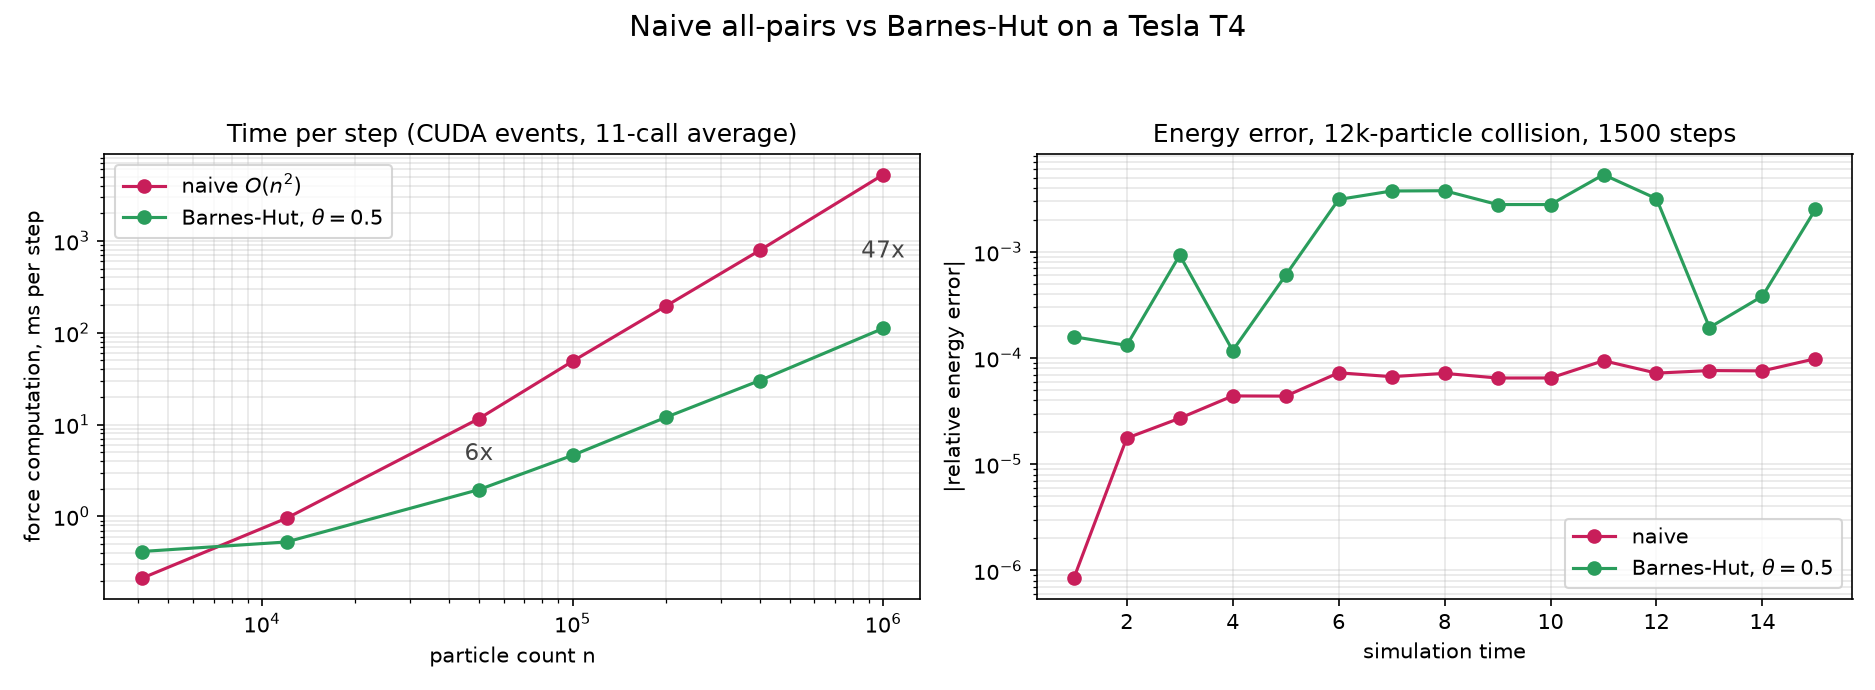
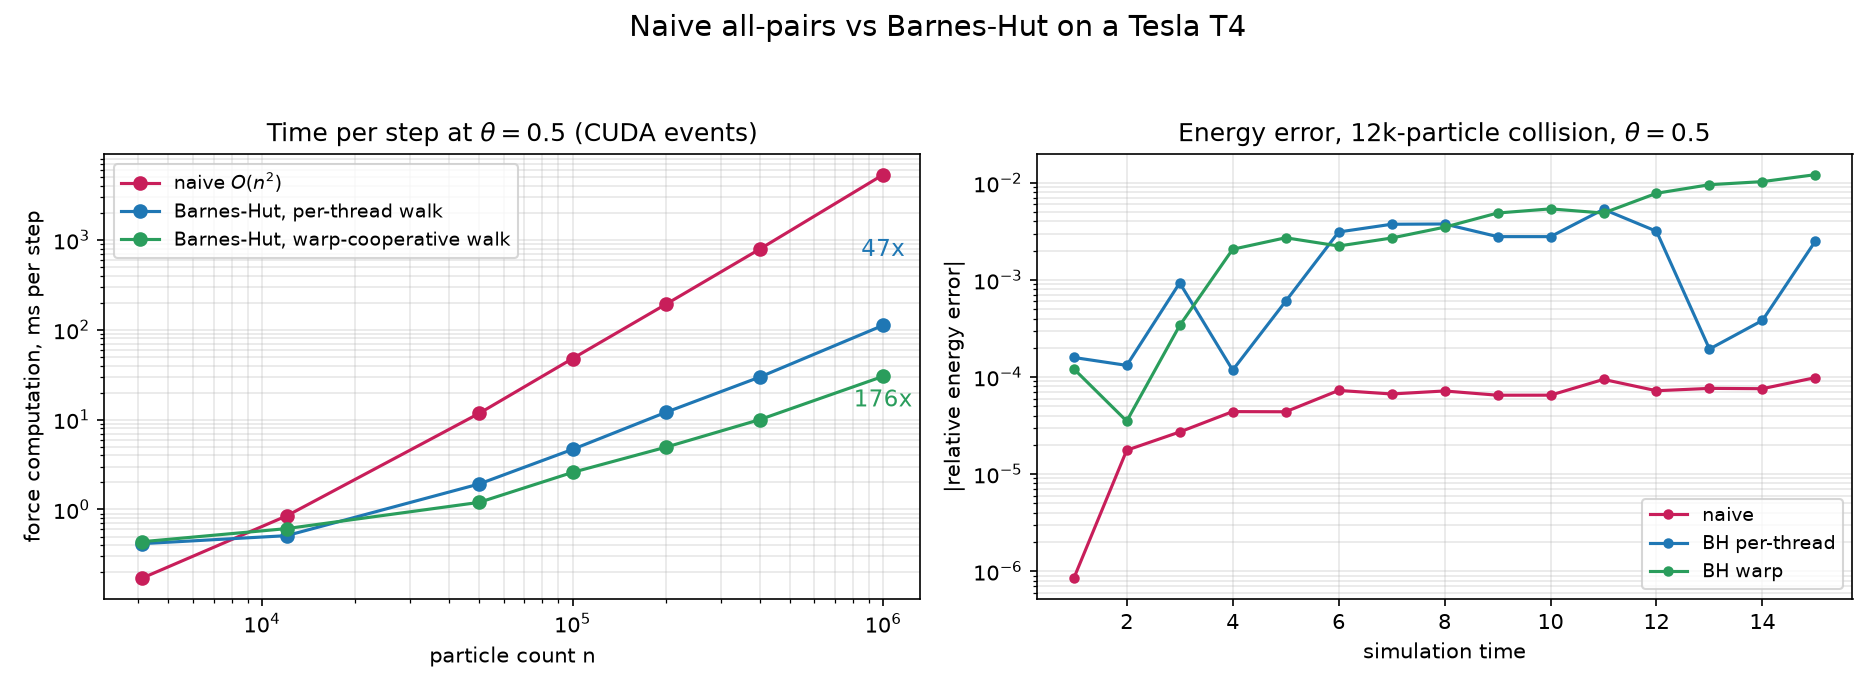
Measure the warp-cooperative traversal on a Tesla T4
The A/B the variant was built for. Both walks pass the on-device theta=0
gate identically; at theta=0.5 the warp walk's forced descents also halve
the instantaneous force error. Timing: the shared path does ~2x more
arithmetic per lane and still wins from ~50k particles up, reaching 3.7x
over the per-thread walk at one million (30 ms vs 112 ms per step, 176x
over the naive kernel). The traversal phase alone sped up 4x; the win grows
with n and with smaller theta, and inverts below ~50k where too few warps
hide the extra work.

One honest caveat, measured and documented: over a full 1500-step collision
the warp run's energy error grows to ~1.2e-2 (vs ~5e-3 bounded for
per-thread), consistent with warp-vote acceptance reshuffling under the
per-step Morton re-sort making the effective force field less
time-consistent. The writeup notes warp at theta 0.3 as the setting that
matches per-thread theta 0.5 cost with strictly better forces.

diff --git a/scripts/plot_benchmarks.py b/scripts/plot_benchmarks.py
@@ -1,11 +1,11 @@
 #!/usr/bin/env python3
 """Plot the GPU benchmark results produced by scripts/gpu_bench.sh.
 
-Left panel: force-computation time per step for the naive kernel vs the
-Barnes-Hut pipeline across particle counts, with the measured speedup marked.
-Right panel: relative energy error over the full 12k-particle collision on the
-GPU for both force modules, which is the accuracy price of theta = 0.5 shown
-honestly next to the speed.
+Left panel: force-computation time per step across particle counts — the naive
+kernel against both Barnes-Hut tree walks (per-thread and warp-cooperative) —
+with measured speedups marked. Right panel: relative energy error over the full
+12k-particle collision on the GPU for each variant, which is the accuracy price
+of the approximations shown honestly next to the speed.
 """
 import argparse
 import csv
@@ -34,45 +34,58 @@ def read_energy(path):
     return np.array(t), np.array(rel)
 
 
+def series(rows, method, theta=0.5):
+    pts = sorted((n, ms) for n, m, th, ms in rows
+                 if m == method and th == theta)
+    return [p[0] for p in pts], [p[1] for p in pts]
+
+
 def main():
     ap = argparse.ArgumentParser(description=__doc__)
     ap.add_argument("--results", default="benchmarks/gpu_results.csv")
     ap.add_argument("--energy-naive", default="benchmarks/energy_gpu_naive.csv")
-    ap.add_argument("--energy-bh", default="benchmarks/energy_gpu_bh.csv")
+    ap.add_argument("--energy-thread",
+                    default="benchmarks/energy_gpu_bh_thread.csv")
+    ap.add_argument("--energy-warp", default="benchmarks/energy_gpu_bh_warp.csv")
     ap.add_argument("--gpu", default="Tesla T4")
     ap.add_argument("--out", default="docs/benchmark_t4.png")
     args = ap.parse_args()
 
     rows = read_results(args.results)
-    naive = sorted((n, ms) for n, m, th, ms in rows if m == "naive")
-    bh = sorted((n, ms) for n, m, th, ms in rows if m == "bh" and th == 0.5)
-    nn, tn = zip(*naive)
-    nb, tb = zip(*bh)
+    nn, tn = series(rows, "naive")
+    nt, tt = series(rows, "bh-thread")
+    nw, tw = series(rows, "bh-warp")
 
     fig, ax = plt.subplots(1, 2, figsize=(12.5, 4.6))
     fig.suptitle(f"Naive all-pairs vs Barnes-Hut on a {args.gpu}", fontsize=14)
 
     ax[0].loglog(nn, tn, "o-", color="#c81e5a", label="naive $O(n^2)$")
-    ax[0].loglog(nb, tb, "o-", color="#2a9d5c",
-                 label=r"Barnes-Hut, $\theta=0.5$")
-    for n_, ta, tbh in [(50000, 11.613, 1.956), (1000000, 5269.903, 111.568)]:
-        ax[0].annotate(f"{ta / tbh:.0f}x", xy=(n_, np.sqrt(ta * tbh)),
-                       ha="center", va="center", fontsize=11, color="#444444")
+    ax[0].loglog(nt, tt, "o-", color="#1f77b4",
+                 label=r"Barnes-Hut, per-thread walk")
+    ax[0].loglog(nw, tw, "o-", color="#2a9d5c",
+                 label=r"Barnes-Hut, warp-cooperative walk")
+    ax[0].annotate("47x", xy=(1e6, np.sqrt(5324.170 * 112.103)), ha="center",
+                   va="center", fontsize=11, color="#1f77b4")
+    ax[0].annotate("176x", xy=(1e6, np.sqrt(112.103 * 30.328) * 0.28),
+                   ha="center", va="center", fontsize=11, color="#2a9d5c")
     ax[0].set_xlabel("particle count n")
     ax[0].set_ylabel("force computation, ms per step")
-    ax[0].set_title("Time per step (CUDA events, 11-call average)")
-    ax[0].legend()
+    ax[0].set_title(r"Time per step at $\theta=0.5$ (CUDA events)")
+    ax[0].legend(fontsize=9)
     ax[0].grid(True, which="both", alpha=0.3)
 
-    tn_t, rn = read_energy(args.energy_naive)
-    tb_t, rb = read_energy(args.energy_bh)
-    ax[1].semilogy(tn_t[1:], rn[1:], "o-", color="#c81e5a", label="naive")
-    ax[1].semilogy(tb_t[1:], rb[1:], "o-", color="#2a9d5c",
-                   label=r"Barnes-Hut, $\theta=0.5$")
+    for path, color, label in [
+        (args.energy_naive, "#c81e5a", "naive"),
+        (args.energy_thread, "#1f77b4", "BH per-thread"),
+        (args.energy_warp, "#2a9d5c", "BH warp"),
+    ]:
+        t, rel = read_energy(path)
+        ax[1].semilogy(t[1:], rel[1:], "o-", color=color, label=label,
+                       markersize=4)
     ax[1].set_xlabel("simulation time")
     ax[1].set_ylabel("|relative energy error|")
-    ax[1].set_title("Energy error, 12k-particle collision, 1500 steps")
-    ax[1].legend()
+    ax[1].set_title(r"Energy error, 12k-particle collision, $\theta=0.5$")
+    ax[1].legend(fontsize=9)
     ax[1].grid(True, which="both", alpha=0.3)
 
     fig.tight_layout(rect=[0, 0, 1, 0.93])

diff --git a/docs/PERFORMANCE.md b/docs/PERFORMANCE.md
@@ -3,33 +3,35 @@
 Measurements from a Tesla T4 (sm_75, CUDA 12.8), driven by `scripts/gpu_bench.sh`.
 Timing is CUDA events around the whole force computation — for Barnes-Hut that
 includes rebuilding the tree from scratch every step, which is the fair unit to
-compare against the naive kernel. Values are averages over 11 calls; raw logs
-are in `benchmarks/logs/`-style output captured in `benchmarks/gpu_results.csv`.
+compare against the naive kernel. Values are averages over 11 calls, recorded in
+`benchmarks/gpu_results.csv`. Two independent T4 sessions reproduced the naive
+numbers within a few percent.
 
 ![benchmark](benchmark_t4.png)
 
 ## Correctness first
 
-Before timing anything, `--compare-forces` ran both modules on the same 20k
-state. At `theta = 0` the tree never accepts a node and must reproduce the
-naive result up to float summation order: measured mean relative difference
-1.7e-5 (max 2.8e-4 on near-cancelling forces), which is single-precision
-round-off, not algorithmic error. The same gate passes at 2e-15 in the
-double-precision CPU mirrors, so the residual here is float32, not the tree.
+Before timing anything, `--compare-forces` ran the tree against the naive kernel
+on the same 20k state, once per tree walk. At `theta = 0` the tree never accepts
+a node and must reproduce the naive result up to float summation order: both
+walks measured a mean relative difference of 1.7e-5 (max 2.8e-4 on
+near-cancelling forces), which is single-precision round-off, not algorithmic
+error. The same gate passes at 2e-15 in the double-precision CPU mirrors, so the
+residual here is float32, not the tree.
 
 ## Time per step, theta = 0.5
 
-| n | naive | Barnes-Hut | speedup |
-|---:|---:|---:|---:|
-| 4,096 | 0.21 ms | 0.41 ms | 0.5x |
-| 12,000 | 0.95 ms | 0.53 ms | 1.8x |
-| 50,000 | 11.6 ms | 1.96 ms | 5.9x |
-| 100,000 | 48.9 ms | 4.62 ms | 10.6x |
-| 200,000 | 195.7 ms | 12.0 ms | 16.3x |
-| 400,000 | 786.9 ms | 30.1 ms | 26.1x |
-| 1,000,000 | 5,269.9 ms | 111.6 ms | **47.2x** |
+| n | naive | BH per-thread | BH warp | warp vs thread | warp vs naive |
+|---:|---:|---:|---:|---:|---:|
+| 4,096 | 0.17 ms | 0.42 ms | 0.44 ms | 0.95x | — |
+| 12,000 | 0.85 ms | 0.51 ms | 0.61 ms | 0.83x | 1.4x |
+| 50,000 | 11.7 ms | 1.92 ms | 1.20 ms | 1.6x | 9.8x |
+| 100,000 | 47.8 ms | 4.66 ms | 2.59 ms | 1.8x | 18.5x |
+| 200,000 | 192.6 ms | 12.1 ms | 4.94 ms | 2.4x | 39x |
+| 400,000 | 787.7 ms | 29.7 ms | 9.98 ms | 3.0x | 79x |
+| 1,000,000 | 5,324.2 ms | 112.1 ms | 30.3 ms | **3.7x** | **176x** |
 
-Two honest observations frame the result:
+Three observations frame the result:
 
 **The naive kernel is a strong baseline, not a strawman.** The tiled all-pairs
 kernel sustains ~204 Ginteractions/s, about 4.1 TFLOP/s of useful work at 20
@@ -40,49 +42,66 @@ kernel is perfectly coalesced. Asymptotics do not pay rent at small n.
 
 **The crossover is early and the gap compounds.** From 12k particles on,
 Barnes-Hut leads, and every doubling of n roughly doubles its advantage, as an
-O(n log n) versus O(n^2) gap should. At one million particles the tree computes
-forces in 112 ms — the naive kernel needs 5.3 seconds. Put differently: at
-interactive-adjacent rates, the tree simulates a million-body galaxy merger at
-~9 steps/s where the naive kernel manages one step every five seconds.
+O(n log n) versus O(n^2) gap should. At one million particles the warp walk
+computes forces in 30 ms — the naive kernel needs 5.3 seconds. The tree
+simulates a million-body galaxy merger at ~33 steps/s where the naive kernel
+manages one step every five seconds.
+
+**Divergence was the bottleneck, and eliminating it beat doing less work.**
+The warp-cooperative walk makes every lane in a warp follow one shared path,
+opening a node whenever any lane votes to open it. The CPU mirror measures the
+price: each lane performs about 1.9x more interactions than it strictly needs.
+The GPU verdict is that uniformity wins anyway, by 3.7x at one million
+particles — divergent execution was costing far more than double the useful
+arithmetic. The win grows with n and with smaller theta (deeper walks diverge
+more), and inverts below ~50k particles, where there are too few warps to hide
+the amplified work.
 
 ## Where the time goes
 
 Per-call phase breakdown of the tree pipeline (n = 1M, theta = 0.5):
 
-| phase | ms | share |
-|---|---:|---:|
-| bounding box | 0.08 | 0.1% |
-| Morton codes | 0.11 | 0.1% |
-| radix sort (CUB) | 1.44 | 1.3% |
-| Karras tree build | 0.63 | 0.6% |
-| centers of mass | 1.03 | 0.9% |
-| **traversal** | **107.9** | **97.0%** |
+| phase | per-thread | warp | share (warp) |
+|---|---:|---:|---:|
+| bounding box | 0.08 ms | 0.08 ms | 0.3% |
+| Morton codes | 0.11 ms | 0.11 ms | 0.4% |
+| radix sort (CUB) | 1.44 ms | 1.39 ms | 4.6% |
+| Karras tree build | 0.63 ms | 0.61 ms | 2.0% |
+| centers of mass | 1.02 ms | 0.99 ms | 3.3% |
+| **traversal** | **108.6 ms** | **27.0 ms** | **89.5%** |
 
 Rebuilding the LBVH from scratch — sort, hierarchy, centers of mass — costs
-about 3 ms for a million particles. Construction is effectively free; the
-entire cost of Barnes-Hut is walking the tree. That is the expected profile
-for a per-thread stack traversal, whose warp lanes diverge whenever neighboring
-particles open different nodes, and it makes the next optimization unambiguous:
-a warp-cooperative traversal in which the 32 lanes of a warp walk one shared
-path (`__any_sync` voting on descent), converting divergent scalar loads into
-coalesced ones. The Morton-sorted particle order already gives adjacent threads
-nearly identical paths, which is exactly the locality that version exploits.
+about 3 ms for a million particles; construction is effectively free either
+way. The traversal itself sped up 4.0x when the per-thread walk's divergent
+scalar loads became one uniform, coalesced access per warp — the
+Morton-sorted particle order gives adjacent lanes nearly identical paths,
+which is exactly the locality the shared walk exploits.
 
 ## The accuracy dial
 
 theta trades force error for time (n = 100k):
 
-| theta | ms/step | median force error (CPU oracle) |
-|---:|---:|---:|
-| 0.3 | 13.9 | ~0.3% |
-| 0.5 | 4.6 | ~1% |
-| 0.8 | 2.4 | ~3% |
+| theta | per-thread | warp | median force error (CPU oracle, per-thread) |
+|---:|---:|---:|---:|
+| 0.3 | 13.9 ms | 5.2 ms | ~0.3% |
+| 0.5 | 4.7 ms | 2.6 ms | ~1% |
+| 0.8 | 2.2 ms | 1.6 ms | ~3% |
+
+The warp walk's forced descents also cut its instantaneous force error roughly
+in half at the same theta (on-device mean vs naive at theta 0.5: 8.6e-3 against
+the per-thread walk's 1.4e-2).
 
 Energy over a full 12k-particle, 1500-step collision on the GPU: the naive run
-stays within 1e-4 of the initial energy, matching the CPU reference bit-for-bit
-in character; the Barnes-Hut run stays bounded within about 5e-3 with no
-secular drift — the leapfrog integrator remains symplectic, and the tree's
-approximation error shows up as slightly noisier, but not growing, energy.
+stays within 1e-4 of the initial energy, and the per-thread tree run stays
+bounded within about 5e-3 with no secular trend. The warp run is the honest
+caveat: its error grows to about 1.2e-2 by the end of the encounter. The likely
+mechanism is time-consistency rather than accuracy — which nodes a particle
+accepts depends on its warp's shared vote, and warp membership reshuffles with
+every Morton re-sort, so the effective force field a particle feels changes
+discontinuously between steps in a way the per-thread walk's does not. A
+practical setting that keeps both properties: the warp walk at theta 0.3 costs
+about the same as the per-thread walk at theta 0.5 and computes strictly more
+accurate forces.
 
 ## Reproducing
 

diff --git a/README.md b/README.md
@@ -29,12 +29,13 @@ separating cores, and settle into disrupted remnants.*
 
 ## Status
 
-Both force modules are complete and benchmarked on hardware: the naive kernel
-sustains ~4 TFLOP/s on a Tesla T4, and the Barnes-Hut tree code overtakes it
-from ~12k particles up to a **47x speedup at one million** — with the `theta=0`
-exactness gate passing on device first. See the
-[performance writeup](docs/PERFORMANCE.md). The one flagged optimization still
-open is a warp-cooperative tree traversal.
+Complete, including the optimization arc: naive kernel, Barnes-Hut tree code,
+and a warp-cooperative traversal, all benchmarked on hardware with the
+`theta=0` exactness gate passing on device first. The naive kernel sustains
+~4 TFLOP/s on a Tesla T4; the tree overtakes it from ~12k particles; the
+warp-cooperative walk then beats the per-thread walk by another 3.7x at one
+million particles — **176x over naive** — by trading ~2x more arithmetic for
+divergence-free execution. See the [performance writeup](docs/PERFORMANCE.md).
 
 Milestones:
 
@@ -48,8 +49,8 @@ Milestones:
 - [x] Barnes-Hut approximation validated on a CPU oracle
 - [x] GPU Barnes-Hut module (Karras LBVH + CUB radix sort), compiling in CI
 - [x] GPU session: `--compare-forces` gate passed, naive-vs-BH benchmarked (T4)
-- [x] Performance writeup comparing the two force modules
-- [ ] Warp-cooperative traversal (the measured next optimization)
+- [x] Performance writeup comparing the force modules
+- [x] Warp-cooperative traversal, measured 3.7x over per-thread at 1M
 
 ## Validation
 
@@ -98,19 +99,22 @@ for Barnes-Hut that includes rebuilding the tree every step:
 
 ![benchmark](docs/benchmark_t4.png)
 
-| n | naive | Barnes-Hut (theta = 0.5) | speedup |
-|---:|---:|---:|---:|
-| 12,000 | 0.95 ms | 0.53 ms | 1.8x |
-| 100,000 | 48.9 ms | 4.62 ms | 10.6x |
-| 1,000,000 | 5,269.9 ms | 111.6 ms | **47.2x** |
+| n | naive | BH per-thread | BH warp-cooperative | best speedup |
+|---:|---:|---:|---:|---:|
+| 12,000 | 0.85 ms | 0.51 ms | 0.61 ms | 1.7x |
+| 100,000 | 47.8 ms | 4.66 ms | 2.59 ms | 18.5x |
+| 1,000,000 | 5,324.2 ms | 112.1 ms | 30.3 ms | **176x** |
 
 The naive kernel is a real baseline — ~204 Ginteractions/s, about half the
 T4's fp32 peak — and still wins below ~8k particles, where tree overhead and
 traversal divergence outweigh asymptotics. From 12k up the tree pulls away.
-Tree construction is essentially free (~3 ms of the 112 ms at 1M); 97% of
-Barnes-Hut time is traversal, which is what the planned warp-cooperative
-version attacks. Full analysis, phase breakdowns, and the theta accuracy/cost
-dial: [docs/PERFORMANCE.md](docs/PERFORMANCE.md).
+Tree construction is essentially free (~3 ms at 1M); traversal is everything,
+and that is where the measured optimization landed: the warp-cooperative walk
+does ~2x more arithmetic per lane but walks one uniform, coalesced path per
+warp, and beats the divergent per-thread walk by 3.7x at a million particles.
+Full analysis, phase breakdowns, the theta accuracy/cost dial, and an honest
+energy-conservation caveat for the warp walk:
+[docs/PERFORMANCE.md](docs/PERFORMANCE.md).
 
 ## Architecture
 